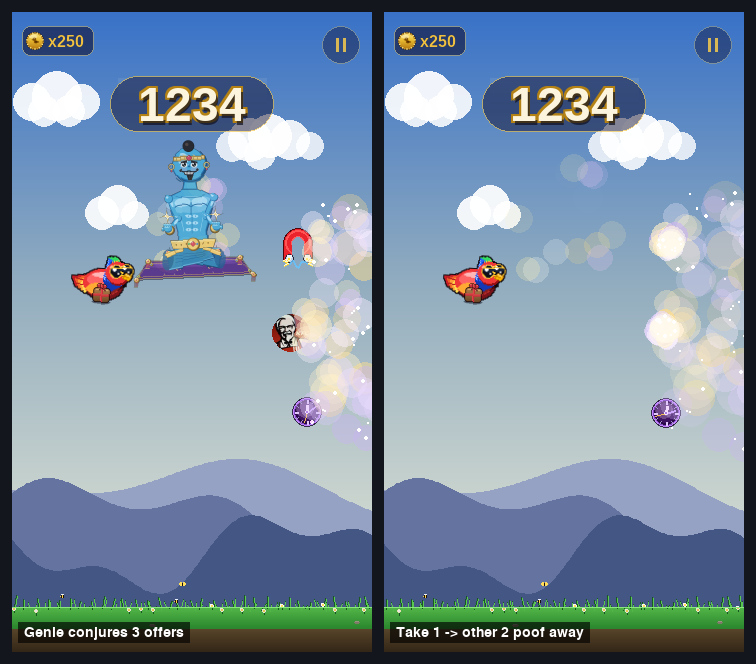
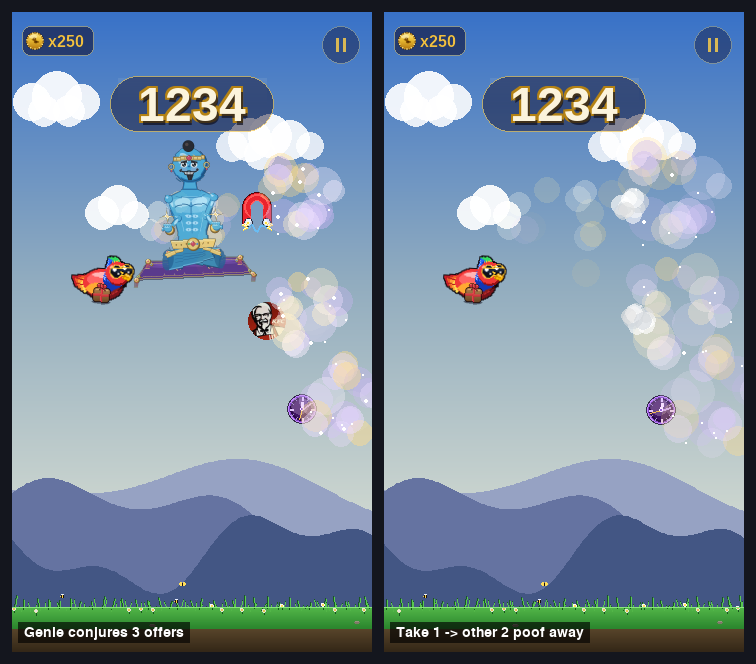
genie: use the KFC transformation poof for appear / disappear / offer vanish
Replaces the bespoke lavender genie puffs with World._spawn_poof — the
same expanding cloud Pip uses when he reverts from KFC mode — so the
genie materialise, vanish, and the two unchosen offers all read with one
mature poof. Regenerates the offer-vanish demo.

https://claude.ai/code/session_01Ms85cBEeRiAtxZBCNh5vN5

diff --git a/game/entities.py b/game/entities.py
@@ -3670,35 +3670,15 @@ class GenieCharacter:
                 cx, cy, vx, vy, life, 3, 11, color))
 
     def _spawn_appear_poof(self):
-        """Bright outward poof burst at the genie's spawn point — the
-        materialise flourish. Slightly larger + warmer than the vanish
-        swirl so the arrival reads as a genie 'popping' into being."""
-        import random as _r
-        from game import entities as _e
-        for _ in range(18):
-            ang = _r.uniform(0, math.pi * 2)
-            sp  = _r.uniform(50, 135)
-            vx  = math.cos(ang) * sp
-            vy  = math.sin(ang) * sp - _r.uniform(10, 45)
-            life = _r.uniform(0.32, 0.58)
-            color = _r.choice([(255, 245, 215), (250, 235, 200),
-                               (235, 220, 250), (215, 200, 240)])
-            self.world.particles.append(_e.CloudPuff(
-                self.x, self.y, vx, vy, life, 5, 18, color))
+        """Materialise flourish — reuses the KFC transformation cloud
+        (World._spawn_poof) so the genie pops in with the same mature
+        puff Pip uses when he reverts from KFC mode."""
+        self.world._spawn_poof(self.x, self.y)
 
     def _spawn_vanish_swirl(self):
-        import random as _r
-        from game import entities as _e
-        for _ in range(14):
-            ang = _r.uniform(0, math.pi * 2)
-            sp  = _r.uniform(40, 110)
-            vx  = math.cos(ang) * sp
-            vy  = math.sin(ang) * sp - _r.uniform(20, 60)
-            life = _r.uniform(0.30, 0.55)
-            color = _r.choice([(230, 220, 250), (215, 200, 240),
-                               (250, 235, 200)])
-            self.world.particles.append(_e.CloudPuff(
-                self.x, self.y, vx, vy, life, 5, 16, color))
+        """Disappear poof — the same KFC transformation cloud as the
+        appear, so the genie evaporates with a clean mature puff."""
+        self.world._spawn_poof(self.x, self.y)
 
     # ── render ───────────────────────────────────────────────────────────
     def draw(self, surf):

diff --git a/game/world.py b/game/world.py
@@ -2470,10 +2470,10 @@ class World:
             if p is chosen or not getattr(p, "is_genie_offer", False):
                 continue
             p.collected = True
-            # The two unchosen wishes evaporate in the SAME magical poof
-            # they materialised with, so taking one offer reads as the
-            # others vanishing in a puff of genie smoke.
-            self._spawn_genie_reveal_poof(p.x, p.y)
+            # The two unchosen wishes evaporate with the SAME mature poof
+            # Pip uses when he reverts from KFC mode (World._spawn_poof),
+            # so taking one offer reads as the others puffing away.
+            self._spawn_poof(p.x, p.y)
         # Kill any active GenieCharacter so its remaining cast beats
         # don't spawn orphan offers after the player has locked in
         # their pick.
